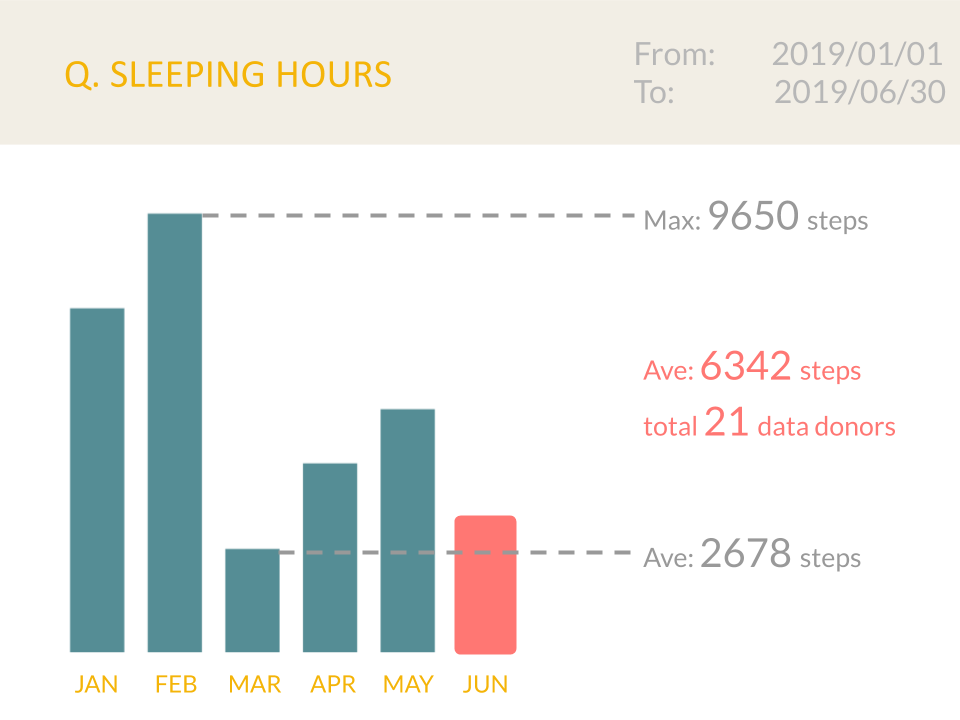
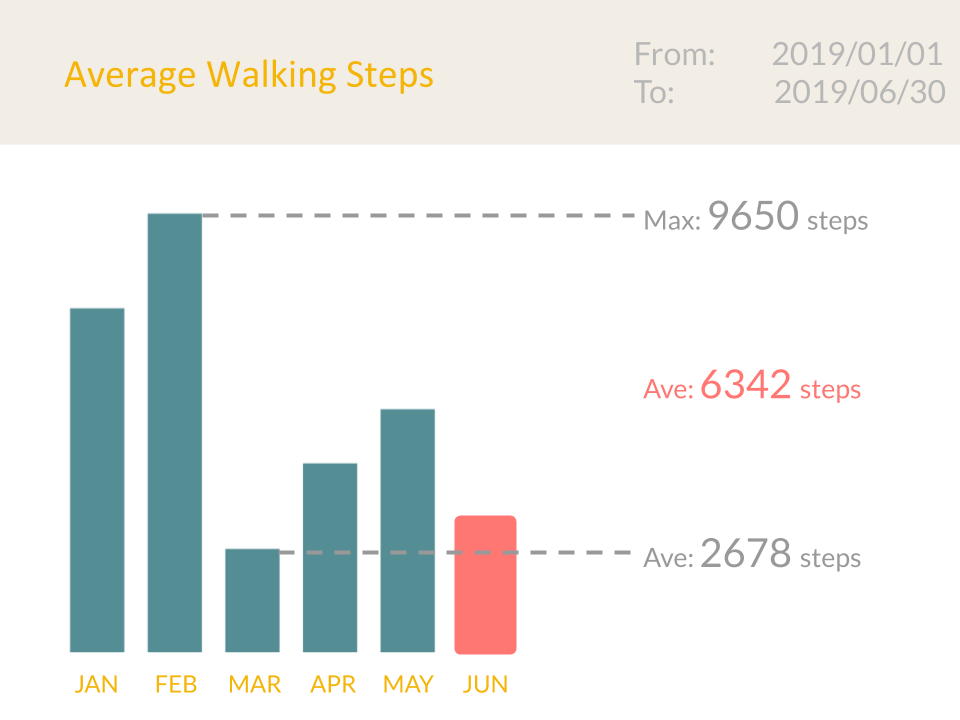
fix image and minor typo

Changed region(s): [[0.6562, 0.4889, 0.9375, 0.6111], [0.0625, 0.0611, 0.4688, 0.1222]]

diff --git a/index.html b/index.html
@@ -110,7 +110,7 @@
 
     <div class="row">
       <div class="col-md-8 col-sm-8 service wow fadeInUp" data-wow-delay="200ms">
-        <h3>Use unique key to login and enjoy full privacy</h3>
+        <h3>Use a unique key to login and enjoy full privacy</h3>
         <a class="btn btn-default btn-lg" data-toggle="collapse" href="#detailKey">See more...  <i class="fa fa-arrow-circle-right"></i></a>
         <div class="collapse" id="detailKey">
           <p>Numbers brings together decentralized technology, data framework, and an ecosystem for data and related services. These technologies serve users and provide services with FULL PRIVACY, SECURITY, AND CONSENT.</p>
